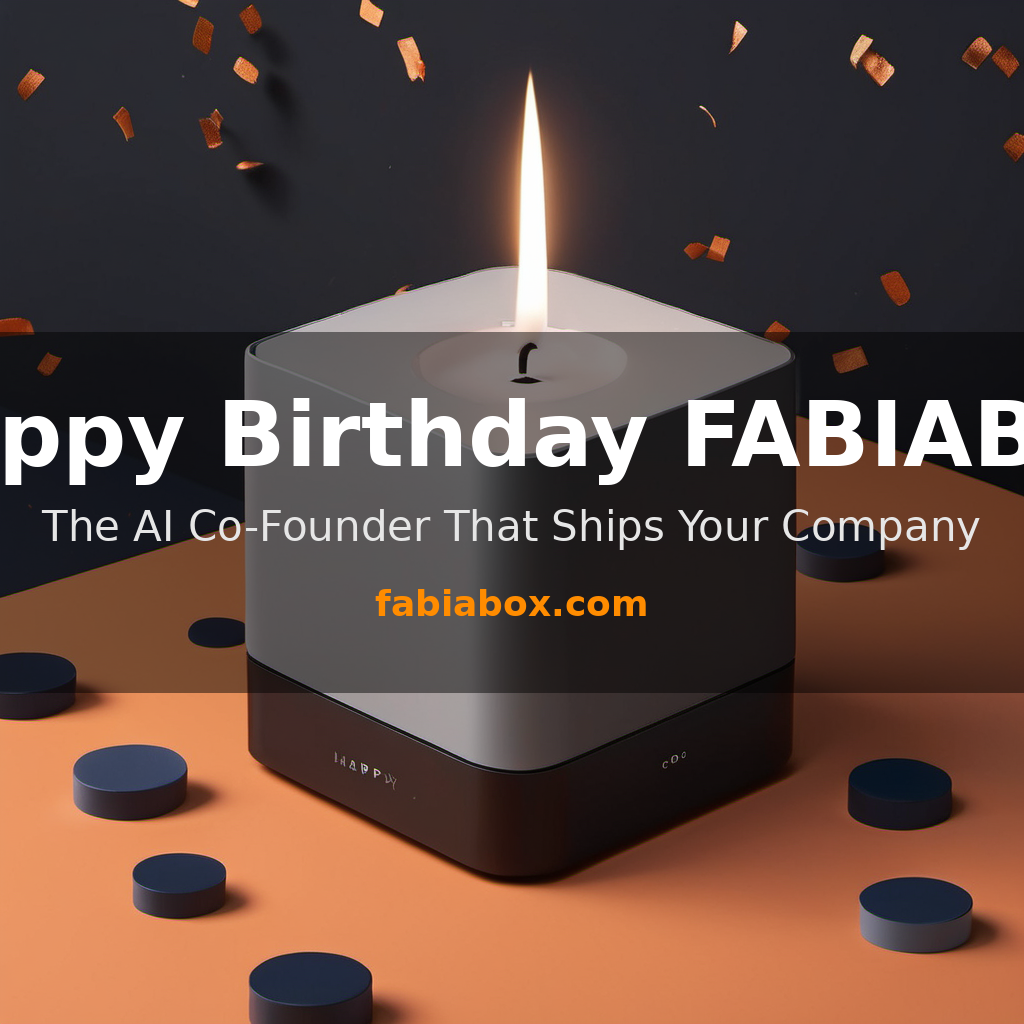
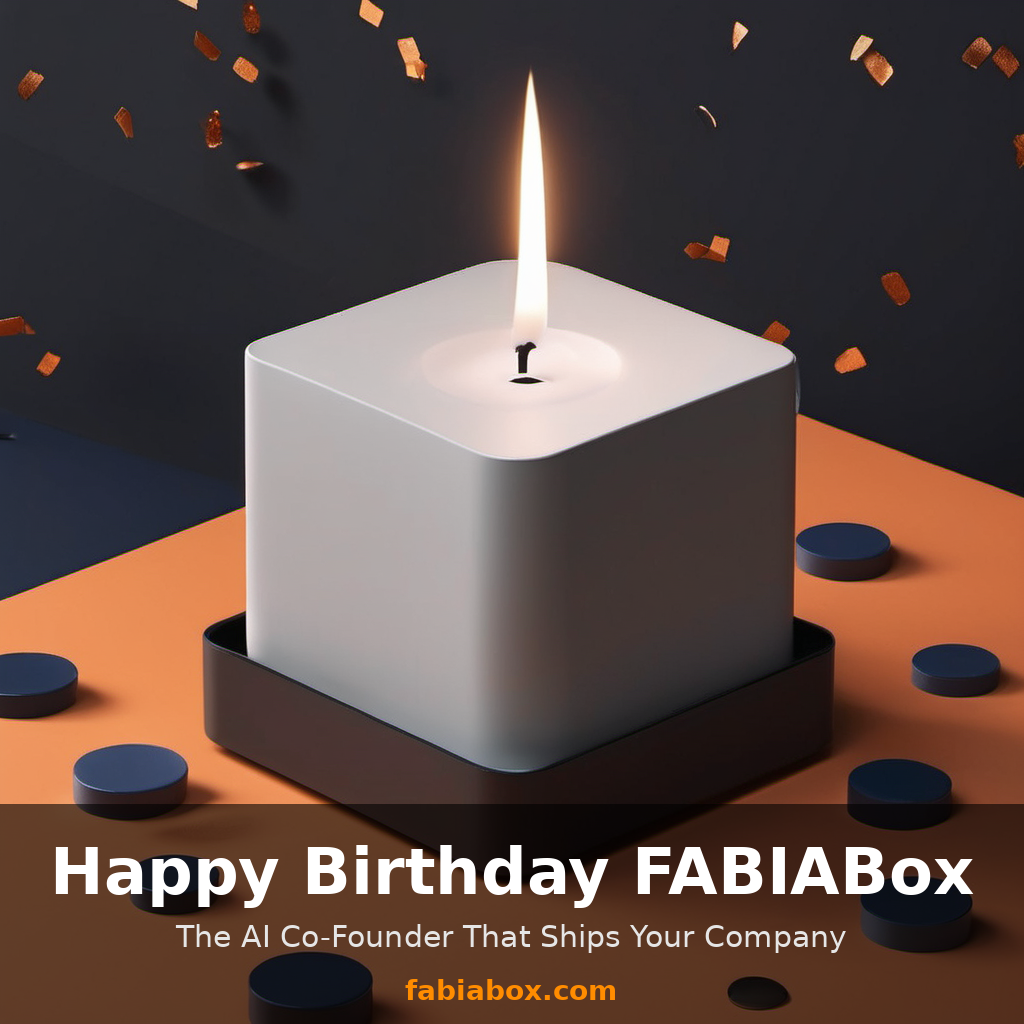
Smaller text overlay for birthday graphic; add Flux fp8 workflow and generator script

diff --git a/scripts/generate_birthday_post.py b/scripts/generate_birthday_post.py
@@ -1,0 +1,106 @@
+#!/usr/bin/env python3
+"""Generate a FABIABox birthday social-media graphic via local ComfyUI."""
+import argparse
+import json
+import time
+from pathlib import Path
+
+import requests
+from PIL import Image, ImageDraw, ImageFont
+
+HOST = "http://127.0.0.1:8188"
+WORKFLOW = Path(__file__).resolve().parents[1] / "assets" / "workflows" / "flux_fp8_birthday.json"
+OUT_DIR = Path(__file__).resolve().parents[1] / "assets" / "social"
+
+
+def overlay_text(src_path: Path, dst_path: Path):
+    img = Image.open(src_path).convert("RGBA")
+    w, h = img.size
+
+    try:
+        title_font = ImageFont.truetype("/usr/share/fonts/truetype/dejavu/DejaVuSans-Bold.ttf", 64)
+        sub_font = ImageFont.truetype("/usr/share/fonts/truetype/dejavu/DejaVuSans.ttf", 30)
+        cta_font = ImageFont.truetype("/usr/share/fonts/truetype/dejavu/DejaVuSans-Bold.ttf", 28)
+    except Exception:
+        title_font = ImageFont.load_default()
+        sub_font = ImageFont.load_default()
+        cta_font = ImageFont.load_default()
+
+    bar_h = 220
+    overlay = Image.new("RGBA", (w, h), (0, 0, 0, 0))
+    overlay_draw = ImageDraw.Draw(overlay)
+    overlay_draw.rectangle([0, h - bar_h, w, h], fill=(0, 0, 0, 150))
+    img = Image.alpha_composite(img, overlay).convert("RGB")
+    draw = ImageDraw.Draw(img)
+
+    title = "Happy Birthday FABIABox"
+    sub = "The AI Co-Founder That Ships Your Company"
+    cta = "fabiabox.com"
+
+    y_start = h - bar_h + 30
+    bbox = draw.textbbox((0, 0), title, font=title_font)
+    draw.text(((w - (bbox[2] - bbox[0])) // 2, y_start), title, font=title_font, fill=(255, 255, 255))
+
+    bbox = draw.textbbox((0, 0), sub, font=sub_font)
+    draw.text(((w - (bbox[2] - bbox[0])) // 2, y_start + 85), sub, font=sub_font, fill=(230, 230, 230))
+
+    bbox = draw.textbbox((0, 0), cta, font=cta_font)
+    draw.text(((w - (bbox[2] - bbox[0])) // 2, y_start + 140), cta, font=cta_font, fill=(255, 140, 0))
+
+    OUT_DIR.mkdir(parents=True, exist_ok=True)
+    img.save(dst_path)
+    print(f"Saved final graphic: {dst_path}")
+
+
+def run_workflow(prompt: str, negative_prompt: str, seed: int, steps: int):
+    workflow = json.loads(WORKFLOW.read_text())
+    workflow.pop("_comment", None)
+    workflow["6"]["inputs"]["text"] = prompt
+    # Flux workflow doesn't have a negative prompt node by default; ignore if missing.
+    if "7" in workflow:
+        workflow["7"]["inputs"]["text"] = negative_prompt
+    workflow["25"]["inputs"]["noise_seed"] = seed
+    workflow["17"]["inputs"]["steps"] = steps
+
+    payload = {"prompt": workflow, "client_id": "fabia-birthday"}
+    resp = requests.post(f"{HOST}/prompt", json=payload, timeout=60)
+    if resp.status_code != 200:
+        raise RuntimeError(f"ComfyUI submit failed: {resp.status_code} {resp.text[:200]}")
+    data = resp.json()
+    prompt_id = data["prompt_id"]
+    print(f"Submitted prompt_id={prompt_id}")
+
+    for _ in range(180):  # 6 minutes
+        time.sleep(2)
+        hist = requests.get(f"{HOST}/history/{prompt_id}", timeout=60).json()
+        if prompt_id in hist:
+            outputs = hist[prompt_id].get("outputs", {})
+            for node_id, node_out in outputs.items():
+                for img in node_out.get("images", []):
+                    filename = img["filename"]
+                    subfolder = img.get("subfolder", "")
+                    url = f"{HOST}/view?filename={filename}&subfolder={subfolder}&type=output"
+                    img_data = requests.get(url, timeout=60).content
+                    base_path = OUT_DIR / filename
+                    base_path.write_bytes(img_data)
+                    print(f"Downloaded base image: {base_path}")
+                    return base_path
+            raise RuntimeError("No image output found")
+    raise RuntimeError("Timeout waiting for ComfyUI")
+
+
+def main():
+    parser = argparse.ArgumentParser()
+    parser.add_argument("--prompt", default="A premium dark-themed social media graphic for a tech company called FABIABox. Center: a sleek matte-black AI appliance box with a subtle glowing candle on top, surrounded by elegant navy and electric-orange confetti. Clean, minimalist, celebratory, high-end startup aesthetic, square 1:1 composition, deep charcoal gradient background, soft studio lighting, ultra detailed, 8k")
+    parser.add_argument("--negative", default="blurry, low quality, distorted text, watermark, signature, cluttered, cartoonish, cheap")
+    parser.add_argument("--seed", type=int, default=42)
+    parser.add_argument("--steps", type=int, default=20)
+    parser.add_argument("--output", default=str(OUT_DIR / "fabiabox_birthday_post.png"))
+    args = parser.parse_args()
+
+    base_path = run_workflow(args.prompt, args.negative, args.seed, args.steps)
+    overlay_text(base_path, Path(args.output))
+
+
+if __name__ == "__main__":
+    main()